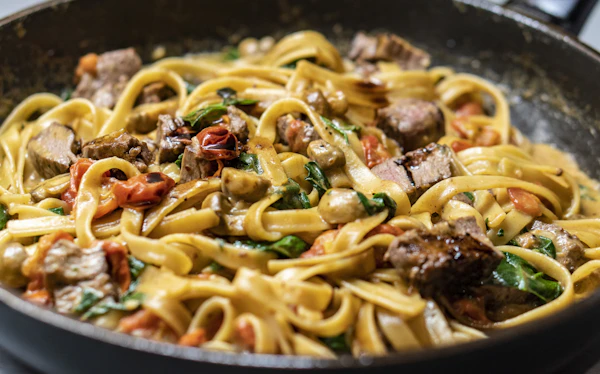
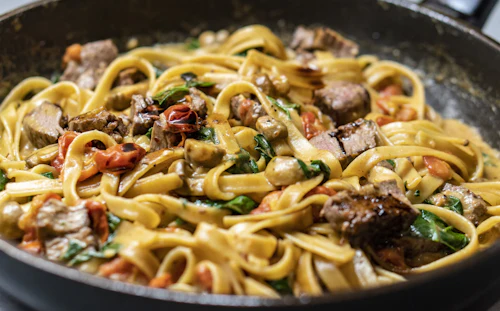
perf: optimize font loading and UI accessibility
- Defer non-critical font loading to improve LCP
- Update text colors to meet accessibility contrast standards
- Add minimum height constraints to prevent layout shifts
- Refactor hero background image path

diff --git a/src/index.css b/src/index.css
@@ -653,6 +653,7 @@ h1, h2, h3, h4, .font-serif, .display-heading {
   overflow: hidden;
   border-bottom: 1px solid var(--color-gold-border);
   text-align: center;
+  min-height: 480px;
 }
 
 .hero-home-bg-img {
@@ -853,9 +854,10 @@ h1, h2, h3, h4, .font-serif, .display-heading {
 }
 
 .feature-box-desc {
-  font-size: 0.84rem;
-  color: var(--color-text-muted);
+  font-size: 0.86rem;
+  color: #384d41;
   margin: 0;
+  line-height: 1.5;
 }
 
 /* ========================================================
@@ -992,7 +994,7 @@ h1, h2, h3, h4, .font-serif, .display-heading {
 }
 
 .dish-card-rating-num {
-  color: var(--color-text-muted);
+  color: #384d41;
   font-size: 0.78rem;
   margin-left: 6px;
   font-weight: 600;
@@ -1152,10 +1154,11 @@ h1, h2, h3, h4, .font-serif, .display-heading {
 .occasion-section {
   position: relative;
   background: linear-gradient(rgba(9, 32, 23, 0.88), rgba(9, 32, 23, 0.94)),
-              url('https://images.unsplash.com/photo-1517248135467-4c7edcad34c4?auto=format&fit=crop&w=1400&q=80') center/cover no-repeat;
+              url('/assets/images/hero-home.webp') center/cover no-repeat;
   color: #ffffff;
   padding: 90px 0 70px 0;
   text-align: center;
+  min-height: 360px;
 }
 
 .occasion-content-box {
@@ -1183,6 +1186,7 @@ h1, h2, h3, h4, .font-serif, .display-heading {
   padding: 40px 0;
   border-top: 1px solid rgba(197, 160, 89, 0.2);
   border-bottom: 1px solid rgba(197, 160, 89, 0.2);
+  min-height: 180px;
 }
 
 .stat-item {
@@ -1194,6 +1198,7 @@ h1, h2, h3, h4, .font-serif, .display-heading {
   box-shadow: 0 4px 16px rgba(9, 32, 23, 0.04);
   transition: transform 0.35s cubic-bezier(0.2, 0.8, 0.2, 1), box-shadow 0.35s cubic-bezier(0.2, 0.8, 0.2, 1), border-color 0.35s ease;
   height: 100%;
+  min-height: 130px;
 }
 
 .stat-item:hover {
@@ -1213,8 +1218,8 @@ h1, h2, h3, h4, .font-serif, .display-heading {
 
 .stat-label {
   font-size: 0.88rem;
-  font-weight: 600;
-  color: var(--color-gold);
+  font-weight: 700;
+  color: var(--color-gold-text-dark);
   letter-spacing: 0.05em;
   text-transform: uppercase;
   margin: 0;

diff --git a/index.html b/index.html
@@ -14,7 +14,11 @@
     <link rel="preconnect" href="https://images.unsplash.com" crossorigin>
     <link rel="dns-prefetch" href="https://images.unsplash.com">
     <link rel="preload" as="image" href="/assets/images/hero-home.webp" type="image/webp" fetchpriority="high">
-    <link href="https://fonts.googleapis.com/css2?family=Cormorant+Garamond:ital,wght@0,400;0,500;0,600;0,700;1,400;1,600&family=Plus+Jakarta+Sans:wght@300;400;500;600;700&display=swap" rel="stylesheet">
+    <link rel="preload" as="style" href="https://fonts.googleapis.com/css2?family=Cormorant+Garamond:ital,wght@0,400;0,500;0,600;0,700;1,400;1,600&family=Plus+Jakarta+Sans:wght@300;400;500;600;700&display=swap">
+    <link rel="stylesheet" href="https://fonts.googleapis.com/css2?family=Cormorant+Garamond:ital,wght@0,400;0,500;0,600;0,700;1,400;1,600&family=Plus+Jakarta+Sans:wght@300;400;500;600;700&display=swap" media="print" onload="this.media='all'">
+    <noscript>
+      <link rel="stylesheet" href="https://fonts.googleapis.com/css2?family=Cormorant+Garamond:ital,wght@0,400;0,500;0,600;0,700;1,400;1,600&family=Plus+Jakarta+Sans:wght@300;400;500;600;700&display=swap">
+    </noscript>
   </head>
   <body>
     <div id="root"></div>

diff --git a/src/pages/HomePage.tsx b/src/pages/HomePage.tsx
@@ -151,7 +151,7 @@ export const HomePage: React.FC = () => {
               <h2 id="signature-dishes-heading" className="display-heading" style={{ fontSize: '2.4rem', color: 'var(--color-emerald-deep)' }}>
                 Our Signature Dishes
               </h2>
-              <p style={{ color: 'var(--color-text-muted)', maxWidth: '520px', margin: 0 }}>
+              <p style={{ color: '#384d41', maxWidth: '520px', margin: 0 }}>
                 A perfect blend of taste, tradition, and culinary creativity designed by Chef Daniel Carter.
               </p>
             </div>
